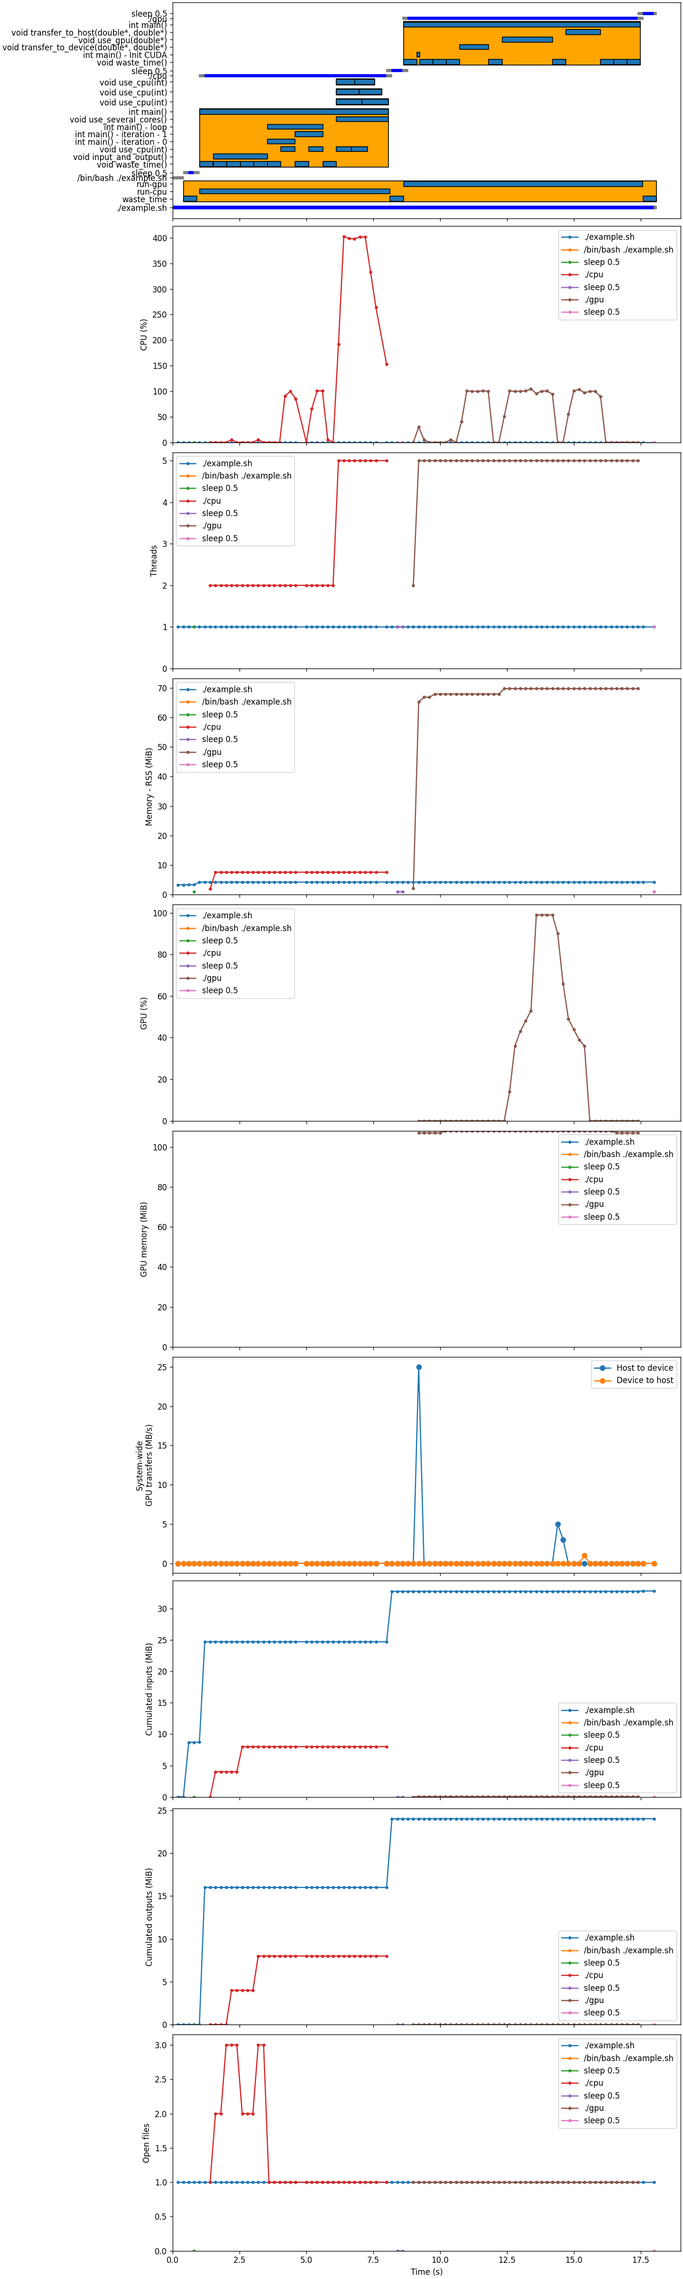
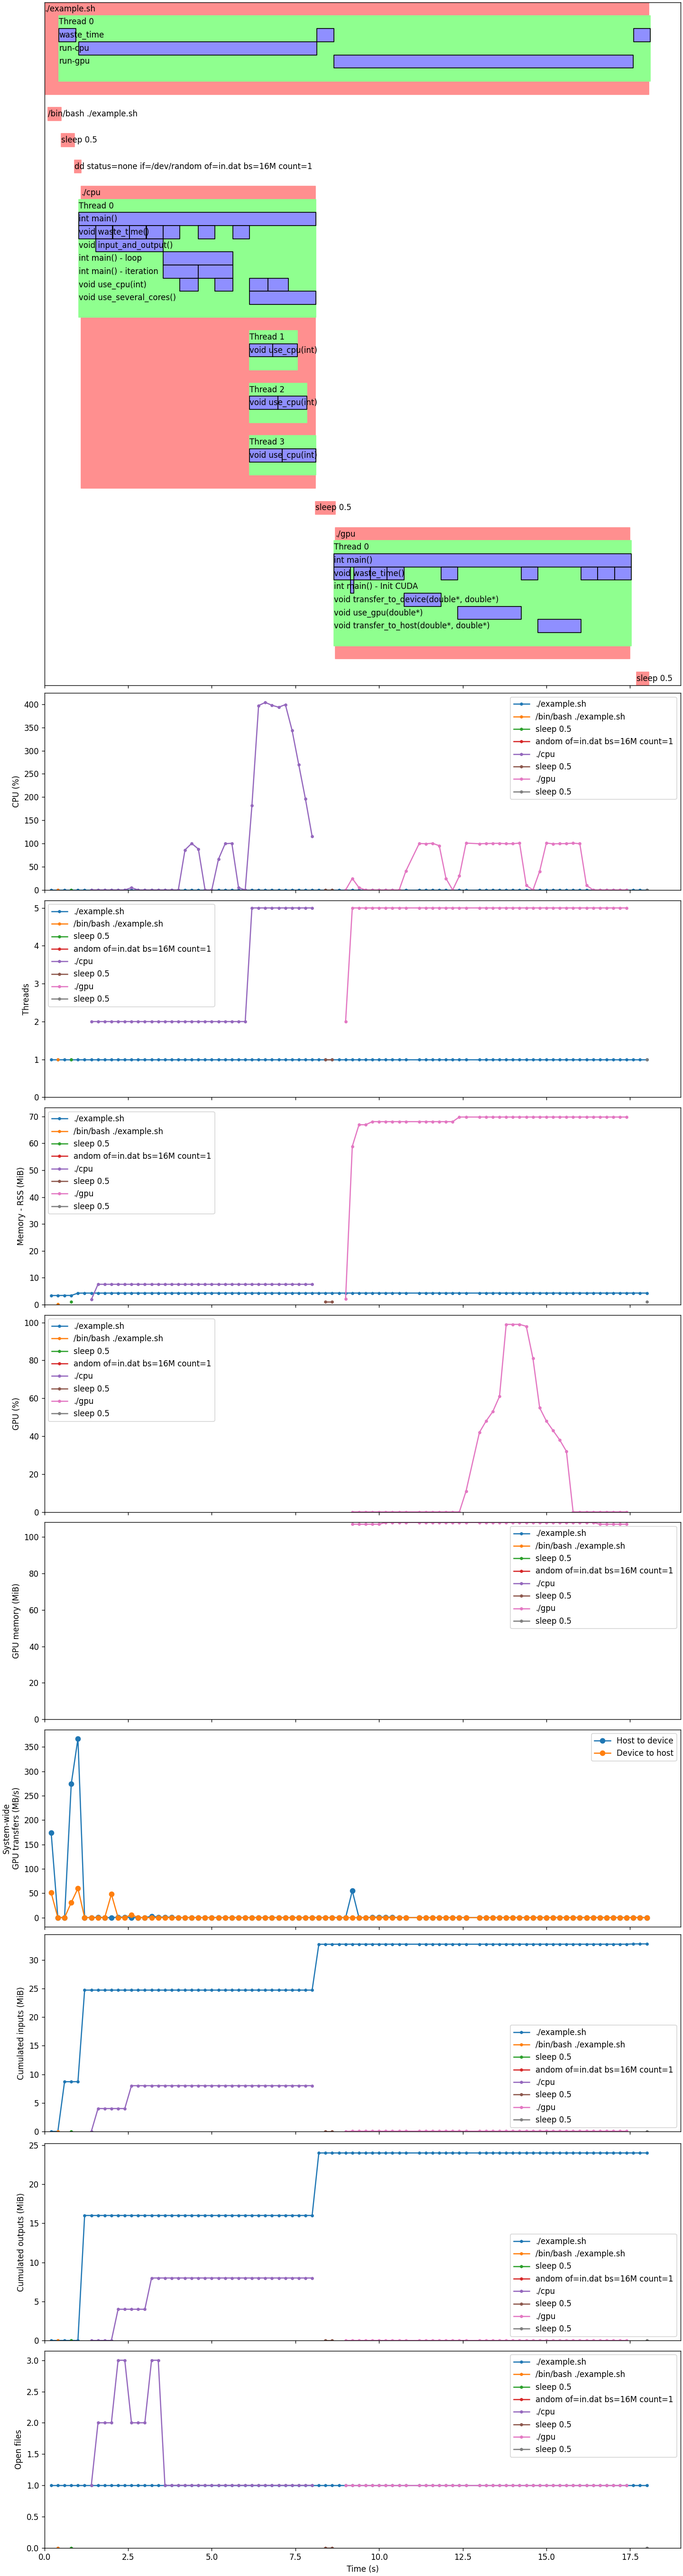
Make the Gantt-ish diagram more readable

diff --git a/Chrones/reporting/graph.py b/Chrones/reporting/graph.py
@@ -3,7 +3,7 @@
 
 from __future__ import annotations
 
-from typing import Dict, Iterable, List, Tuple
+from typing import Dict, Iterable, List, Optional, Tuple
 import dataclasses
 
 import matplotlib.pyplot as plt
@@ -16,11 +16,14 @@ def make_graph(output_file):
 
     origin_timestamp = results.main_process.started_between_timestamps[0]
 
+    gantt_grapher = GantGrapher(results)
+
     n = 10 if results.run_settings.gpu_monitored else 7
     fig, axes = plt.subplots(
         n, 1, squeeze=False,
         sharex=True,
-        figsize=(12, 4 * n), layout="constrained",
+        figsize=(12, 4 * n + gantt_grapher.get_height() / 10), layout="constrained",
+        height_ratios=[gantt_grapher.get_height() / 15] + [1 for _ in range(n - 1)],
     )
     if results.run_settings.gpu_monitored:
         (
@@ -38,89 +41,7 @@ def make_graph(output_file):
             (inputs_ax,), (outputs_ax,), (open_files_ax,)
         ) = axes
 
-    chrones_ticks_ys = []
-    chrones_ticks_labels = []
-    bottom_y = 0
-    def plot_chrones(chrone_events: Iterable[monitoring_result.ChroneEvent]):
-        nonlocal chrones_ticks_ys
-        nonlocal chrones_ticks_labels
-        nonlocal bottom_y
-
-        @dataclasses.dataclass
-        class Thread:
-            stack: List[monitoring_result.ChroneEvent]
-            chrones: Dict[str, Tuple[float, float]]
-            first_event: monitoring_result.ChroneEvent
-            last_event: monitoring_result.ChroneEvent
-
-        threads = {}
-        for event in chrone_events:
-            thread = threads.setdefault(event.thread_id, Thread([], {}, None, None))
-            if thread.first_event is None:
-                thread.first_event = event
-            thread.last_event = event
-
-            if event.__class__ == monitoring_result.StopwatchStart:
-                thread.stack.append(event)
-            elif event.__class__ == monitoring_result.StopwatchStop:
-                start_event = thread.stack.pop()
-                name = " - ".join(
-                    str(part)
-                    for part in filter(
-                        lambda p: p is not None,
-                        [start_event.function_name, start_event.label, start_event.index],
-                    )
-                )
-                bars = thread.chrones.setdefault(name, [])
-                bars.append((start_event.timestamp - origin_timestamp, event.timestamp - start_event.timestamp))
-            elif event.__class__ == monitoring_result.StopwatchSummary:
-                pass
-            else:
-                assert False
-        threads = list(threads.values())
-        assert all(t.stack == [] for t in threads)
-
-        for thread in threads:
-            if thread.chrones:
-                chrones_ax.broken_barh(
-                    [(thread.first_event.timestamp - origin_timestamp, thread.last_event.timestamp - thread.first_event.timestamp)],
-                    (bottom_y + 0.75, len(thread.chrones) * 3 - 0.5),
-                    color="orange",
-                    edgecolor="black",
-                )
-                for (name, bars) in thread.chrones.items():
-                    chrones_ax.broken_barh(bars, (bottom_y + 1, 2), edgecolor="black")
-                    chrones_ticks_ys.append(bottom_y + 2)
-                    chrones_ticks_labels.append(name)
-                    bottom_y += 3
-                bottom_y += 1
-
-    def plot_processes(process: monitoring_result.Process):
-        nonlocal chrones_ticks_ys
-        nonlocal chrones_ticks_labels
-        nonlocal bottom_y
-        plot_chrones(process.load_chrone_events())
-        chrones_ax.broken_barh(
-            [(process.started_between_timestamps[0] - origin_timestamp, process.started_between_timestamps[1] - process.started_between_timestamps[0])],
-            (bottom_y, 1),
-            color="grey"
-        )
-        chrones_ax.broken_barh(
-            [(process.started_between_timestamps[1] - origin_timestamp, process.terminated_between_timestamps[0] - process.started_between_timestamps[1])],
-            (bottom_y, 1),
-            color="blue"
-        )
-        chrones_ax.broken_barh(
-            [(process.terminated_between_timestamps[0] - origin_timestamp, process.terminated_between_timestamps[1] - process.terminated_between_timestamps[0])],
-            (bottom_y, 1),
-            color="grey"
-        )
-        chrones_ticks_ys.append(bottom_y + 0.5)
-        chrones_ticks_labels.append(process.command[-30:])
-        bottom_y += 2
-
-    iter_processes(results.main_process, before=plot_processes)
-    chrones_ax.set_yticks(chrones_ticks_ys, labels=chrones_ticks_labels)
+    gantt_grapher.draw(chrones_ax)
 
     def plot_cpu(process: monitoring_result.Process):
         metrics = process.instant_metrics
@@ -245,6 +166,107 @@ def make_graph(output_file):
 
     fig.savefig(output_file, dpi=120)
     plt.close(fig)
+
+
+class GantGrapher:
+    @dataclasses.dataclass
+    class Thread:
+        stack: List[monitoring_result.ChroneEvent]
+        chrones: Dict[str, Tuple[float, float]]
+        first_event: Optional[monitoring_result.ChroneEvent]
+        last_event: Optional[monitoring_result.ChroneEvent]
+
+    def __init__(self, results: monitoring_result.RunResults):
+        self.__results = results
+        self.__origin_timestamp = results.main_process.started_between_timestamps[0]
+        self.__prepare()
+
+    def __prepare(self):
+        self.__processes = []
+        iter_processes(self.__results.main_process, before=lambda p: self.__processes.append(p))
+        self.__threads = {process.pid: self.__prepare_threads(process) for process in self.__processes}
+
+    def __prepare_threads(self, process: monitoring_result.Process):
+        threads = {}
+        for event in process.load_chrone_events():
+            thread = threads.setdefault(event.thread_id, GantGrapher.Thread([], {}, None, None))
+            if thread.first_event is None:
+                thread.first_event = event
+            thread.last_event = event
+
+            if event.__class__ == monitoring_result.StopwatchStart:
+                thread.stack.append(event)
+            elif event.__class__ == monitoring_result.StopwatchStop:
+                start_event = thread.stack.pop()
+                name = " - ".join(
+                    str(part)
+                    for part in filter(
+                        lambda p: p is not None,
+                        [start_event.function_name, start_event.label],
+                    )
+                )
+                chrones = thread.chrones.setdefault(name, [])
+                chrones.append((start_event, event))
+            elif event.__class__ == monitoring_result.StopwatchSummary:
+                pass
+            else:
+                assert False
+        threads = list(threads.values())
+        assert all(t.stack == [] for t in threads)
+
+        return threads
+
+    def get_height(self):
+        return sum(
+            2 + sum(3 + len(thread.chrones) for thread in self.__threads[process.pid])
+            for process in self.__processes
+        ) - 1
+
+    def draw(self, ax):
+        top_y = 0
+
+        for process in self.__processes:
+            start_x = (process.started_between_timestamps[0] + process.started_between_timestamps[1]) / 2 - self.__origin_timestamp
+            end_x = (process.terminated_between_timestamps[0] + process.terminated_between_timestamps[1]) / 2 - self.__origin_timestamp
+            width = end_x - start_x
+
+            threads_height = sum(3 + len(thread.chrones) for thread in self.__threads[process.pid])
+            process_height = 1 + threads_height
+
+            ax.broken_barh([(start_x, width)], (top_y - process_height, process_height), color="#ff8f8f")
+            ax.text(x=start_x, y=top_y - 0.5, s=process.command, ha="left", va="center")
+
+            self.__plot_threads(top_y - 1, self.__threads[process.pid], ax)
+
+            top_y -= 1 + process_height
+
+        assert top_y + 1 == -self.get_height()
+
+        ax.set_ylim(top=0, bottom=top_y + 1)
+        ax.set_yticks([])
+
+    def __plot_threads(self, top_y, threads: List[GantGrapher.Thread], ax):
+        for (thread_index, thread) in enumerate(filter(lambda t: t.chrones, threads)):
+            start_x = thread.first_event.timestamp - self.__origin_timestamp
+            end_x = thread.last_event.timestamp - self.__origin_timestamp
+            width = end_x - start_x
+
+            thread_height = 2 + len(thread.chrones)
+
+            ax.broken_barh([(start_x, width)], (top_y - thread_height, thread_height), color="#8fff8f")
+            ax.text(x=start_x, y=top_y - 0.5, s=f"Thread {thread_index}", ha="left", va="center")
+
+            self.__plot_chrones(start_x, top_y - 1, thread.chrones, ax)
+
+            top_y -= 1 + thread_height
+
+    def __plot_chrones(self, left_x, top_y, chrones, ax: plt.Axes):
+        for (name, events) in sorted(chrones.items(), key=lambda kv: kv[1][0][0].timestamp):
+            bars = [(start_event.timestamp - self.__origin_timestamp, stop_event.timestamp - start_event.timestamp) for (start_event, stop_event) in events]
+            ax.broken_barh(bars, (top_y - 1, 1), color="#8f8fff", edgecolor="black")
+            ax.text(x=left_x, y=top_y - 0.5, s=name, ha="left", va="center")
+
+            top_y -= 1
 
 
 def iter_processes(process, *, before=lambda _: None, after=lambda _: None):

diff --git a/README.md b/README.md
@@ -224,8 +224,6 @@ Out of the box, *Chrones* produces generic reports and graphs, but you can custo
 
 As a complete example, here is the shell script that the image at the top of this Readme is about (named `example.sh`):
 
-<!-- @todo(v1.0.0) Make the Gantt-ish diagram more readable -->
-
 <!-- START example.sh --><!--
     #!/bin/bash
 
@@ -447,7 +445,7 @@ This code is built using `make` and the following `Makefile`:
     set -o errexit
     trap 'echo "Error on ${BASH_SOURCE[0]}:$LINENO"' ERR
 
-    rm -f run-results.json example.*.chrones.csv cpu.*.chrones.csv gpu.*.chrones.csv
+    rm -f run-results.json example.*.chrones.csv cpu.*.chrones.csv gpu.*.chrones.csv report.png in.dat out.dat
 
 
     make
